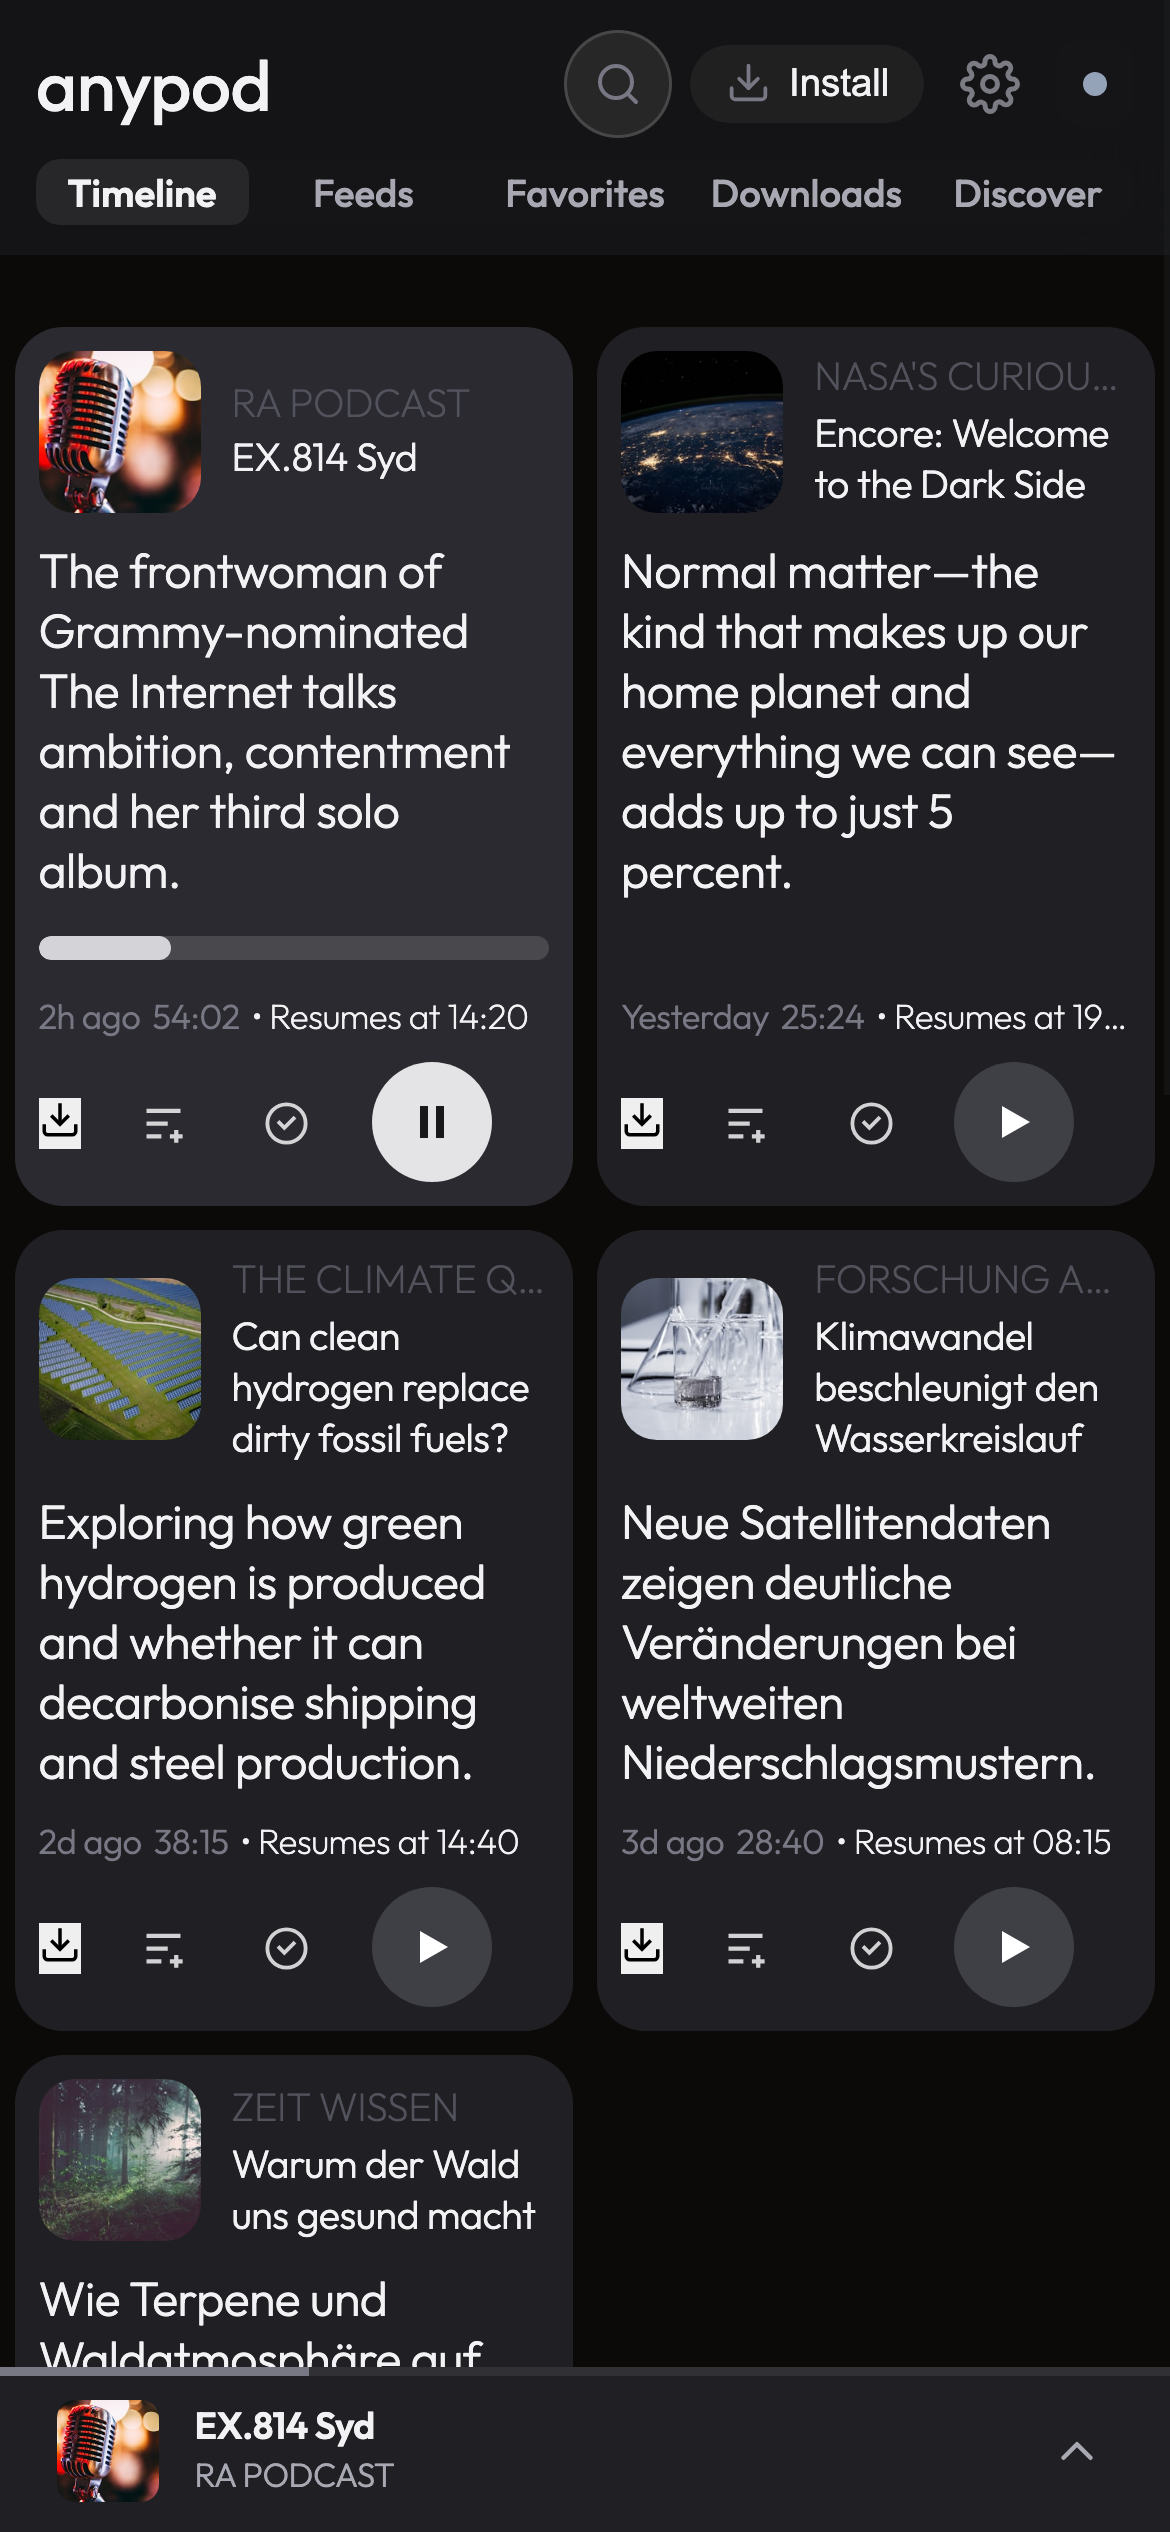
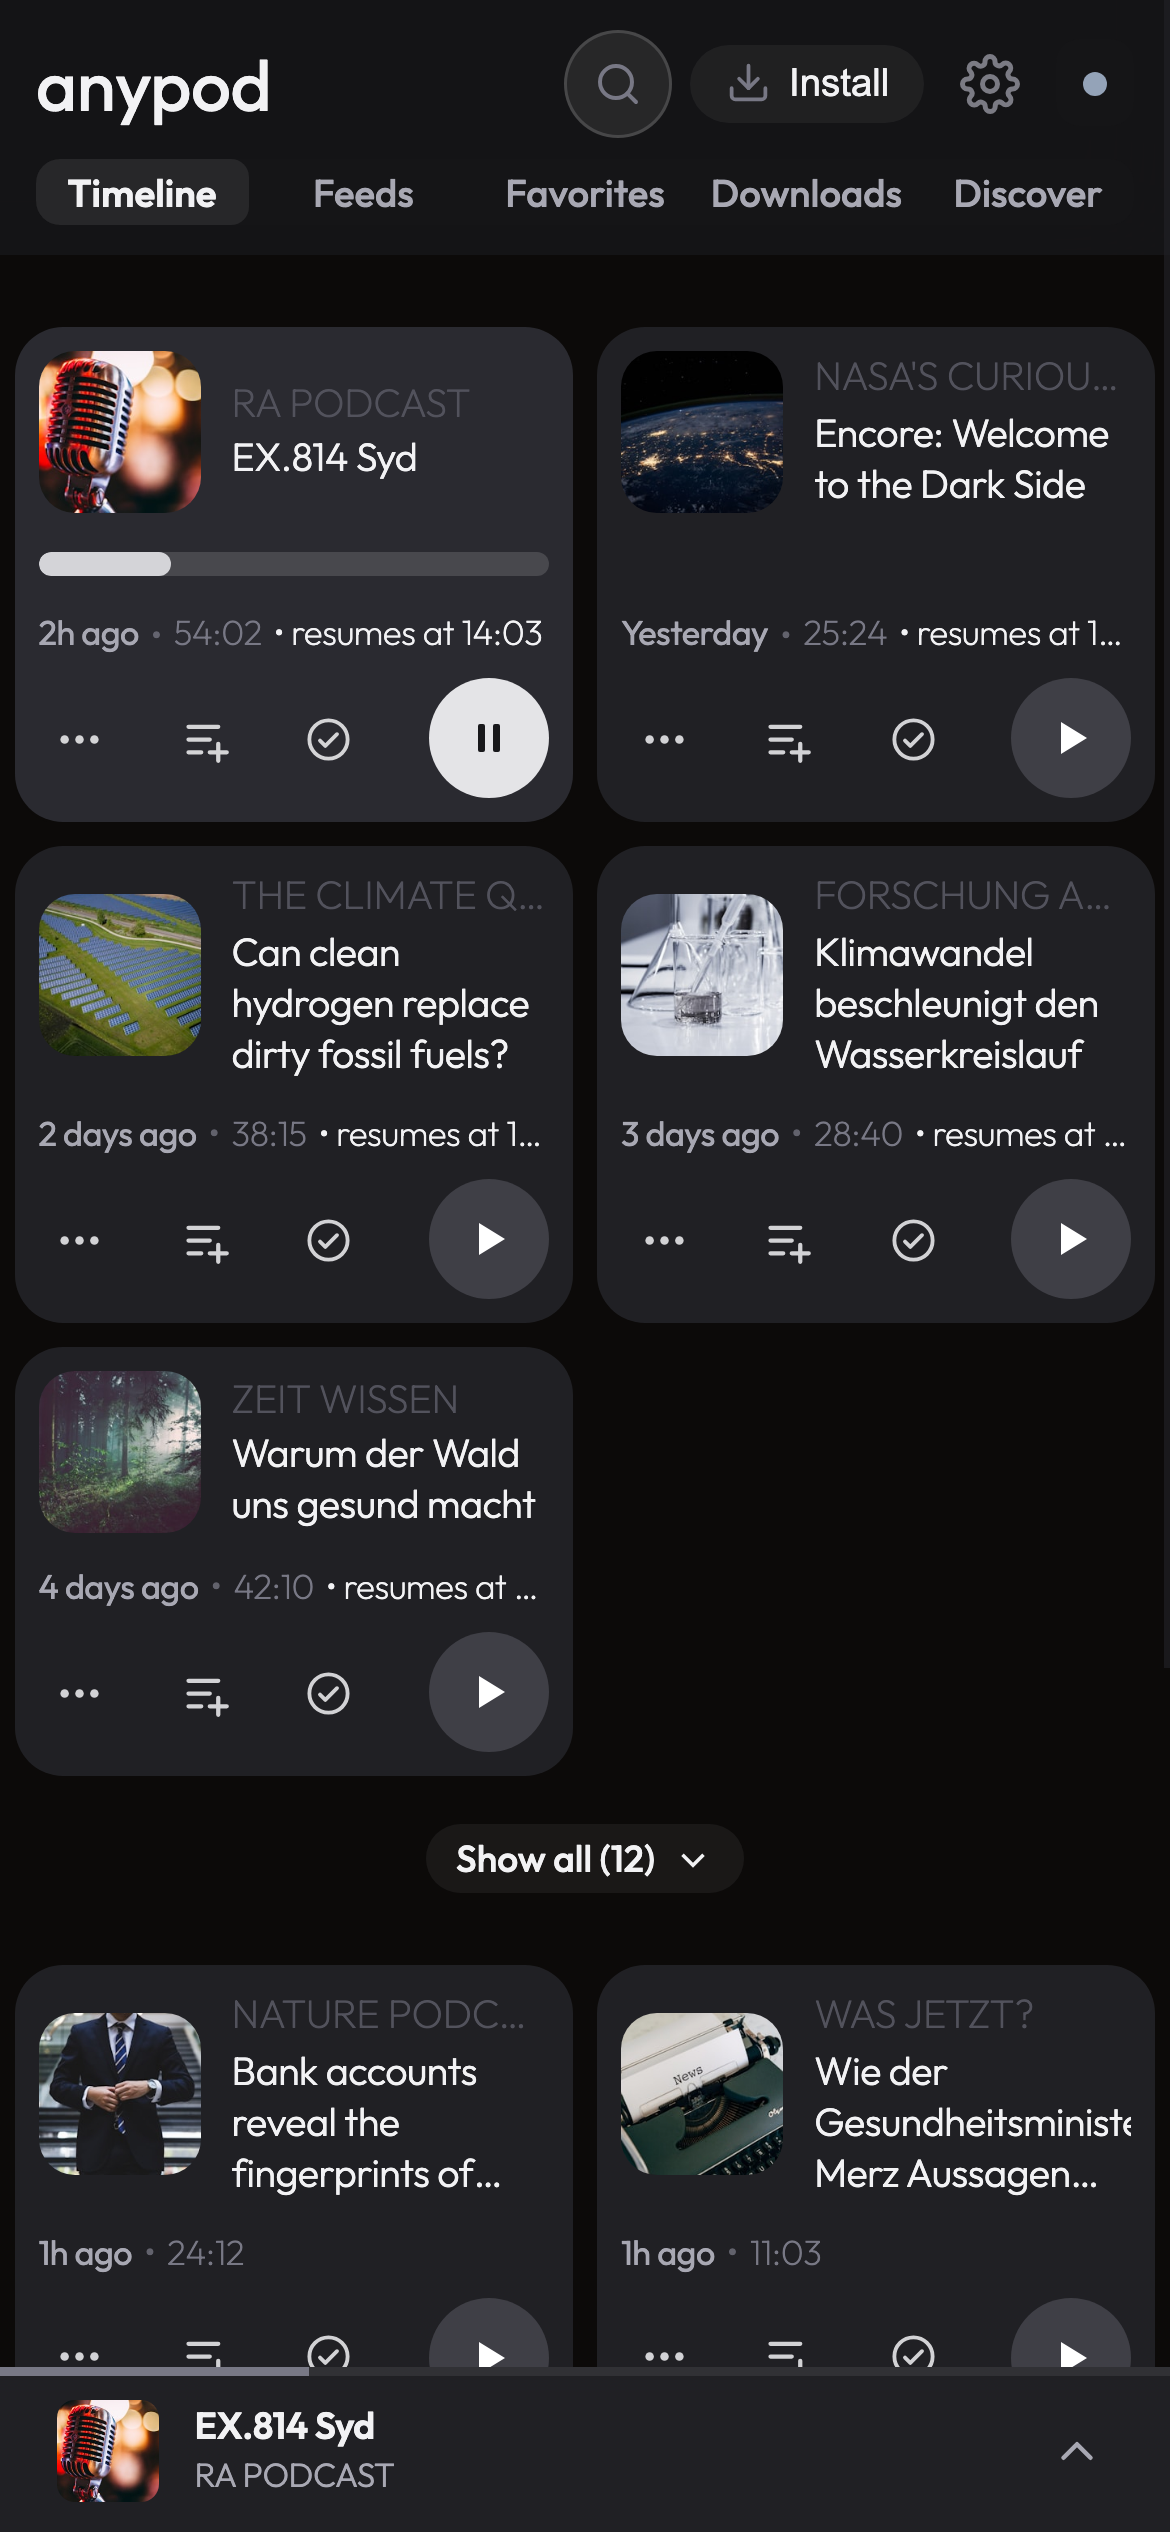
docs(screenshots): render cards via live createEpisodeCard() and refresh screenshots

diff --git a/scripts/capture_screenshots.js b/scripts/capture_screenshots.js
@@ -270,47 +270,62 @@ function inPageSetup(continueData, timelineData, feedsData) {
   const continueGrid = document.getElementById('continue-grid');
   const timelineList = document.getElementById('timeline-list');
 
-  function createCard(item) {
+  function parseDurToSec(durStr) {
+    const parts = String(durStr || '').split(':').map(Number);
+    if (parts.length === 2 && !isNaN(parts[0]) && !isNaN(parts[1])) return parts[0] * 60 + parts[1];
+    if (parts.length === 3 && !isNaN(parts[0]) && !isNaN(parts[1]) && !isNaN(parts[2])) return parts[0] * 3600 + parts[1] * 60 + parts[2];
+    return 1800;
+  }
+
+  function parseRelTime(timeStr) {
+    const now = Date.now();
+    if (timeStr === 'Yesterday') return now - 86400 * 1000;
+    const hMatch = String(timeStr || '').match(/(\d+)h ago/);
+    if (hMatch) return now - Number(hMatch[1]) * 3600 * 1000;
+    const dMatch = String(timeStr || '').match(/(\d+)d ago/);
+    if (dMatch) return now - Number(dMatch[1]) * 86400 * 1000;
+    return now - 3600 * 1000;
+  }
+
+  function createCard(item, idx) {
+    const guid = 'mock-' + idx + '-' + item.title.toLowerCase().replace(/[^a-z0-9]+/g, '-').slice(0, 24);
+    const durSec = parseDurToSec(item.dur);
+    if (typeof state !== 'undefined' && state.playbackPositions && item.pct) {
+      state.playbackPositions[guid] = {
+        position: Math.round((item.pct / 100) * durSec),
+        duration: durSec,
+        completed: false
+      };
+    }
+    const ep = {
+      guid,
+      podcastTitle: item.pod,
+      title: item.title,
+      artwork: item.art,
+      duration: durSec,
+      timestamp: parseRelTime(item.time),
+      feedUrl: 'https://anypod.org/feed/mock.xml'
+    };
+    if (item.active && typeof state !== 'undefined') {
+      state.currentEpisode = ep;
+      state.playbackStatus = 'playing';
+    }
+    if (typeof createEpisodeCard === 'function') {
+      return createEpisodeCard(ep, { type: 'timeline' }, idx);
+    }
     const card = document.createElement('div');
     card.className = 'episode-card' + (item.active ? ' playing' : '');
-
-    let cardHtml = '<div class="episode-card-top">';
-    cardHtml += '<img class="episode-artwork" loading="lazy" decoding="async" width="48" height="48" src="' + item.art + '">';
-    cardHtml += '<div class="episode-header-info">';
-    cardHtml += '<div class="episode-podcast-name">' + item.pod + '</div>';
-    cardHtml += '<div class="episode-title">' + item.title + '</div>';
-    cardHtml += '</div></div>';
-    cardHtml += '<div class="episode-desc">' + item.desc + '</div>';
-    if (item.pct) {
-      cardHtml += '<div class="ep-progress-track"><div class="ep-progress-fill" style="width: ' + item.pct + '%;"></div></div>';
-    }
-    cardHtml += '<div class="episode-footer">';
-    cardHtml += '<div class="episode-meta">';
-    cardHtml += '<span>' + item.time + '</span>';
-    cardHtml += '<span>' + item.dur + '</span>';
-    if (item.resume) {
-      cardHtml += '<span class="ep-resume-time">• ' + item.resume + '</span>';
-    }
-    cardHtml += '</div>';
-    cardHtml += '<div class="episode-card-actions">';
-    cardHtml += '<button class="btn-download-ep"><svg width="14" height="14" viewBox="0 0 24 24" fill="none" stroke="currentColor" stroke-width="2"><path d="M21 15v4a2 2 0 0 1-2 2H5a2 2 0 0 1-2-2v-4"></path><polyline points="7 10 12 15 17 10"></polyline><line x1="12" y1="15" x2="12" y2="3"></line></svg></button>';
-    cardHtml += '<button class="btn-queue-ep"><svg width="14" height="14" viewBox="0 0 24 24" fill="none" stroke="currentColor" stroke-width="2"><path d="M4 6h16M4 12h10M4 18h7"></path><path d="M18 15v6M15 18h6"></path></svg></button>';
-    cardHtml += '<button class="btn-mark-played"><svg width="14" height="14" viewBox="0 0 24 24" fill="none" stroke="currentColor" stroke-width="1.8"><circle cx="12" cy="12" r="9"></circle><polyline points="16 9 11 14 8 11"></polyline></svg></button>';
-    cardHtml += '<button class="btn-play-ep">' + (item.active ? '<svg width="14" height="14" viewBox="0 0 24 24" fill="currentColor"><rect x="6" y="4" width="4" height="16"></rect><rect x="14" y="4" width="4" height="16"></rect></svg>' : '<svg width="14" height="14" viewBox="0 0 24 24" fill="currentColor"><polygon points="6 4 20 12 6 20 6 4"></polygon></svg>') + '</button>';
-    cardHtml += '</div></div>';
-
-    card.innerHTML = cardHtml;
     return card;
   }
 
   if (continueGrid) {
     continueGrid.innerHTML = '';
-    continueData.forEach(d => continueGrid.appendChild(createCard(d)));
+    continueData.forEach((d, idx) => continueGrid.appendChild(createCard(d, idx)));
   }
 
   if (timelineList) {
     timelineList.innerHTML = '';
-    timelineData.forEach(d => timelineList.appendChild(createCard(d)));
+    timelineData.forEach((d, idx) => timelineList.appendChild(createCard(d, idx + 100)));
   }
 
   function createFeedCard(f) {
